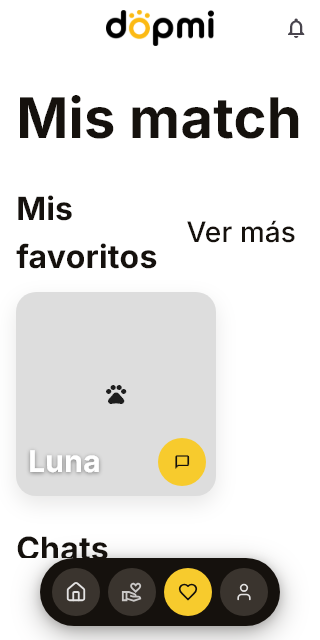
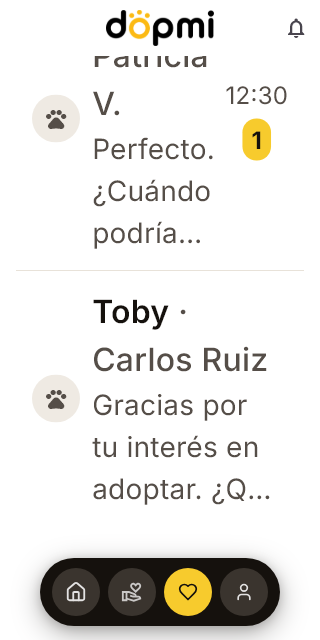
Capture enlarged chat rows after scrolling into view

diff --git a/apps/mobile/tool/capture_profile_test.dart b/apps/mobile/tool/capture_profile_test.dart
@@ -289,6 +289,10 @@ void main() {
         );
         await tester.pumpAndSettle();
       }
+      if (spec.$1 == 'match-threads-large') {
+        await tester.scrollUntilVisible(find.text('Perfecto. ¿Cuándo podrías visitarlo?'), 150, scrollable:find.byType(Scrollable).first);
+        await tester.pumpAndSettle();
+      }
       if (spec.$1 == 'adoption-end') {
         await tester.tap(find.byTooltip('Pasar'));
         await tester.pumpAndSettle();
